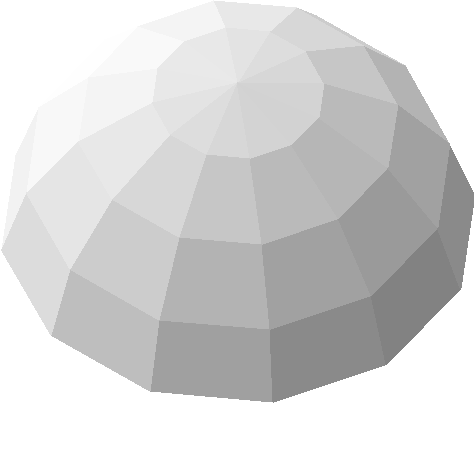
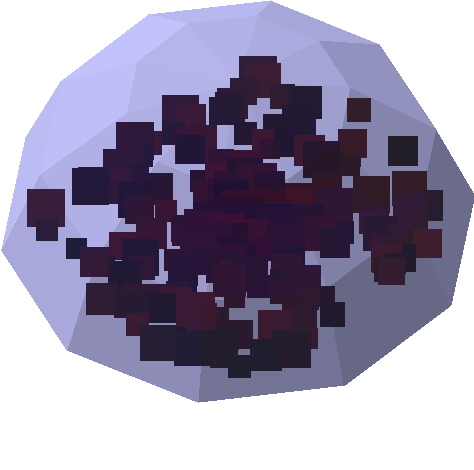
PyWeek37: menuscene dome

diff --git a/pyweek37/src/render.py b/pyweek37/src/render.py
@@ -65,8 +65,8 @@ def renderdome(scale):
 	view.VscaleG = scale
 	view.xG0, view.yG0 = 0, 0
 	pview.center = scale, scale
-	ntheta = 12
-	nphi = 4
+	ntheta = 10
+	nphi = 3
 	surf = pygame.Surface((2 * scale, 2 * scale)).convert_alpha()
 	surf.fill((0, 0, 0, 0))
 	for jtheta in range(ntheta):
@@ -75,6 +75,41 @@ def renderdome(scale):
 			pGs = [pdome(theta / ntheta, phi / nphi) for theta, phi in ps]
 			renderquad(surf, pGs, (255, 255, 255))
 	return surf
+
+
+def rendercity(scale):
+	view.VscaleG = scale
+	view.xG0, view.yG0 = 0, 0
+	pview.center = scale, scale
+	dome = renderdome(scale)
+	dimg = dome.copy()
+	dimg.fill((0, 0, 255, 60))
+	dimg.blit(dome, (0, 0), None, pygame.BLEND_RGBA_MULT)
+	img = dome.copy()
+	buildings = []
+	for j in range(200):
+#		x = math.fuzzrange(-1, 1, 1200, j)
+#		y = math.fuzzrange(-1, 1, 1201, j)
+#		if math.hypot(x, y) > 1: continue
+#		x *= 0.65
+#		y *= 0.65
+		r = math.fuzzrange(0, 0.48, 1204, j)
+		theta = math.fuzzrange(0, math.tau, 1205, j)
+		x, y = math.CS(theta, r)
+		h = math.fuzzrange(0.05, 0.1, 1202, j)
+		rect = pygame.Rect(0, 0, int(view.VscaleG * h), int(view.VscaleG * h))
+		rect.midbottom = view.DconvertG((x, y))
+		r = int(math.fuzzrange(40, 80, 1203, j))
+		g = int(math.fuzzrange(20, 40, 1204, j))
+		b = int(math.fuzzrange(0, 20, 1205, j))
+		buildings.append((rect.bottom, rect, (r, g, b)))
+	buildings.sort()
+	for _, rect, color in buildings:
+		img.fill(color, rect)
+	img.blit(dimg, (0, 0))
+	return img
+	
+
 
 def pstraight(ftheta, a, beta):
 	theta = math.tau * ftheta
@@ -144,8 +179,8 @@ def renderturn(scale, beta, d):
 	view.VscaleG = scale
 	view.xG0, view.yG0 = 0, 0
 	pview.center = scale, scale
-	ntheta = 40
-	nphi = 16
+	ntheta = 400
+	nphi = 160
 	surf = pygame.Surface((2 * scale, 2 * scale)).convert_alpha()
 	surf.fill((0, 0, 0, 0))
 	if drawback:
@@ -213,22 +248,24 @@ if __name__ == "__main__":
 	pygame.init()
 	pview.set_mode((800, 800))
 	setcamera()
-	shave(renderdome(400), "dome")
-	for jbeta in range(6):
-		beta = jbeta * math.tau / 6
-		shave(renderstraight(400, beta), f"tube-{jbeta}-{jbeta}")
-		jbetaL = (jbeta - 1) % 6
-		shave(renderturn(400, beta, -1), f"tube-{jbeta}-{jbetaL}")
-		jbetaR = (jbeta + 1) % 6
-		shave(renderturn(400, beta, 1), f"tube-{jbeta}-{jbetaR}")
-		shave(renderdock(400, beta), f"dock-{jbeta}")
+	if False:
+		shave(rendercity(400), "dome")
+		for jbeta in range(6):
+			beta = jbeta * math.tau / 6
+			shave(renderstraight(400, beta), f"tube-{jbeta}-{jbeta}")
+			# The turns take 7 hours to render at full resolution.
+			jbetaL = (jbeta - 1) % 6
+			shave(renderturn(400, beta, -1), f"tube-{jbeta}-{jbetaL}")
+			jbetaR = (jbeta + 1) % 6
+			shave(renderturn(400, beta, 1), f"tube-{jbeta}-{jbetaR}")
+			shave(renderdock(400, beta), f"dock-{jbeta}")
 	if True:
 		while not any(event.type in (pygame.QUIT, pygame.KEYDOWN) for event in pygame.event.get()):
 			pview.fill((60, 30, 0))
 			view.tip = math.cycle(pygame.time.get_ticks() * 0.0002)
 			view.tilt = pygame.time.get_ticks() * 0.0001
 			setcamera()
-			img = renderdock(400, 0)
+			img = rendercity(400)
 			pview.screen.blit(img, (0, 0))
 			pygame.display.flip()
 

diff --git a/pyweek37/src/menuscene.py b/pyweek37/src/menuscene.py
@@ -1,5 +1,5 @@
 import pygame, math
-from . import pview, ptext, control, colorscene, settings, graphics, scene, state
+from . import pview, ptext, control, colorscene, settings, graphics, scene, state, render, view
 from .pview import T
 
 class self:
@@ -35,6 +35,8 @@ def think(dt):
 			else:
 				scene.scene = playscene
 			state.level = self.selected
+			view.tilt = 0.15
+			view.tip = 0.7
 			scene.scene.init()
 
 def drawbox(rectV, text):
@@ -46,10 +48,16 @@ def drawbox(rectV, text):
 
 def draw():
 	pview.fill((60, 40, 20))
+
+	view.tilt = 0.04 * 0.001 * pygame.time.get_ticks()
+	render.setcamera()
+	img = render.rendercity(600)
+	img = pygame.transform.smoothscale(img, T(600, 600))
+	pview.screen.blit(img, img.get_rect(center = T(500, 420)))
 	
 	for rectV, text in self.boxes:
 		drawbox(rectV, text)
-	ptext.draw(settings.gamename, center = T(400, 400), width = T(600), fontsize = T(100),
+	ptext.draw(settings.gamename, center = T(400, 100), width = T(600), fontsize = T(100),
 		shade = 1, owidth = 1)
 	ptext.draw("by Christopher Night\nmusic by Kevin MacLeod",
 		bottomleft = T(20, 700), fontsize = T(40),

diff --git a/pyweek37/src/graphics.py b/pyweek37/src/graphics.py
@@ -166,10 +166,10 @@ def drawcloudatH(pH):
 	t = pygame.time.get_ticks() * 0.001
 	theta0 = math.fuzzrange(0, 1000, 3000, *pH)
 	omega = math.fuzzrange(0.1, 0.2, 3001, *pH)
-	yG += 0.1 * math.cycle(theta0 + omega * t)
+	yG += 0.12 * math.cycle(theta0 + omega * t)
 	theta0 = math.fuzzrange(0, 1000, 3002, *pH)
 	omega = math.fuzzrange(0.1, 0.2, 3003, *pH)
-	xG += 0.1 * math.cycle(theta0 + omega * t)
+	xG += 0.12 * math.cycle(theta0 + omega * t)
 	sizeD = view.DscaleG(2), view.DscaleG(2 * math.cos(view.tip))
 	drawimgat(cloudimg(sizeD), view.DconvertG((xG, yG), 0.2))
 
